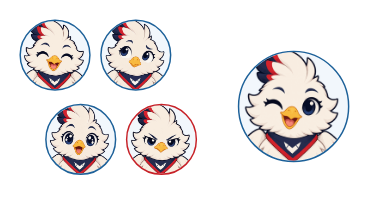
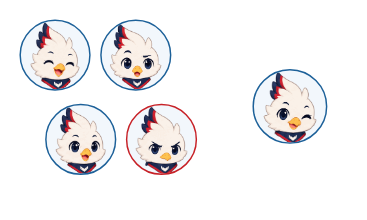
Griffin: huy hiệu dùng bộ mặt 02_faces, vẽ thêm dấu chấm cho ! và ?
GriffinBadge lấy mặt từ 02_faces (badge-<mood>.png) thay cho ảnh cắt từ bộ đứng; face-<mood>.png vẫn
là avatar cho DialogueCard. Bộ gốc vẽ dấu chấm than và dấu hỏi thiếu dấu chấm — griffin-assets.py
vẽ bổ sung theo màu nền và viền của nét gốc, và giờ dựng luôn cả đạo cụ.

diff --git a/vinuni-lesson-video-ds/components/mascot/Griffin.jsx b/vinuni-lesson-video-ds/components/mascot/Griffin.jsx
@@ -51,8 +51,9 @@ const moodName = (m) => (m === 'angry' ? 'stern' : MOODS.includes(m) ? m : 'neut
 
 const PROPS = {
   lightbulb: { file: 'lightbulb', w: 51, h: 77 },
-  question: { file: 'question_mark', w: 52, h: 62 },
-  exclamation: { file: 'exclamation', w: 29, h: 60 },
+  // `k` scales a prop against the others: the marks include their dot, so they get more height
+  question: { file: 'question_mark', w: 52, h: 86, k: 1.3 },
+  exclamation: { file: 'exclamation', w: 29, h: 85, k: 1.3 },
   sparkle: { file: 'sparkle', w: 66, h: 76 },
   book: { file: 'book', w: 56, h: 93 },
   laptop: { file: 'laptop', w: 129, h: 85 },
@@ -188,7 +189,7 @@ export function Griffin({
         const o = stepOpacity(props, i, frame, 8);
         const pop = p.at <= 0 && enter === null ? 1 : popScale(frame, Math.max(p.at, enter ?? 0));
         // a worn prop sits on the head and moves with it; the others float above the crest
-        const size = def.worn ? h * 0.3 : ph;
+        const size = def.worn ? h * 0.3 : ph * (def.k ?? 1);
         const pw = def.worn ? size : (size * def.w) / def.h;
         const pH = def.worn ? (size * def.h) / def.w : size;
         const at = def.worn
@@ -220,8 +221,9 @@ export function Griffin({
 }
 
 /**
- * GriffinBadge — the face in a round frame: a reaction mark, or a speaker face beside a line. The faces
- * (face-<mood>.png, square, on bgAlt) are cut from the `stand` set; mood changes cut with a small pop.
+ * GriffinBadge — the face in a round frame: a reaction mark beside an idea. The heads are the pack's own
+ * face drawings (badge-<mood>.png, ~150×210 px — sharp up to r ≈ 100); mood changes cut with a small pop.
+ * A square avatar for DialogueCard is face-<mood>.png instead, cut from the `stand` set.
  */
 export function GriffinBadge({ x, y, r = 56, mood = 'neutral', frame = 0, enter = null, tone = 'accent', base = DEFAULT_BASE, opacity = 1 }) {
   if (opacity <= 0.001) return null;
@@ -233,6 +235,10 @@ export function GriffinBadge({ x, y, r = 56, mood = 'neutral', frame = 0, enter 
   const ring = { accent: C.accent, strong: C.accentStrong, red: C.red, muted: C.textMuted }[tone] ?? C.accent;
   const id = `gb-${Math.round(x)}-${Math.round(y)}`;
   const names = [...new Set(moods.map((m) => moodName(m.name)))];
+  // the heads are drawn larger than the ring and clipped to it (crest on top, scarf below), eyes and beak
+  // at the centre; the box keeps their ~0.72 aspect and the image fits inside it
+  const fh = r * 2.0;
+  const fw = fh * 0.74;
   return (
     <g opacity={opacity < 1 ? opacity : undefined} transform={`translate(${x} ${y}) scale(${s * (1 + q * 0.06)})`}>
       <defs>
@@ -245,11 +251,11 @@ export function GriffinBadge({ x, y, r = 56, mood = 'neutral', frame = 0, enter 
         {names.map((name) => (
           <image
             key={name}
-            href={griffinAsset(`face-${name}`, base)}
-            x={-r}
-            y={-r}
-            width={r * 2}
-            height={r * 2}
+            href={griffinAsset(`badge-${name}`, base)}
+            x={-fw / 2}
+            y={-fh * 0.47}
+            width={fw}
+            height={fh}
             opacity={name === now ? undefined : 0}
           />
         ))}

diff --git a/tools/griffin-assets.py b/tools/griffin-assets.py
@@ -5,9 +5,10 @@
 Every expression set is registered onto its calm picture (scale + shift, legs weighted over the head,
 mirrored when a picture was drawn facing the other way), so a mood change swaps the picture in place.
 Each set shares one canvas cropped to the union of its drawings, 820 px tall, feet on the bottom edge.
-Gestures are single pictures on the same 820 px scale; face-<mood>.png are square avatars cut from `stand`.
+Gestures are single pictures on the same 820 px scale; face-<mood>.png are square avatars cut from `stand`;
+badge-<mood>.png are the head-only drawings of 02_faces (GriffinBadge).
 Output is a 256-colour palette PNG (flat cartoon colours: visually lossless, ~4x smaller).
-Props (lightbulb, question_mark…) are copied by hand from 08_accessories_props — they are not touched here.
+Props come from 08_accessories_props, trimmed; `!` and `?` get the dot the pack's drawings are missing.
 """
 import json, os, sys
 import numpy as np
@@ -139,5 +140,35 @@ for m in MOODS:
     bg = Image.new('RGBA', c.size, (242, 247, 252, 255))
     bg.alpha_composite(c)
     bg.convert('RGB').save(f'{OUT}/face-{m}.png', optimize=True)
+# badge faces (GriffinBadge): the head-only drawings of 02_faces, trimmed; `angry` is the pack's name for stern
+for m in MOODS:
+    im = Image.open(f"{SRC}/02_faces/face_{'angry' if m == 'stern' else m}.png").convert('RGBA')
+    im = im.crop(im.getchannel('A').point(lambda v: 255 if v > 8 else 0).getbbox())
+    save(im, f'{OUT}/badge-{m}.png')
+# props: copied from 08_accessories_props, trimmed. The pack's `!` and `?` are drawn without their dot, so
+# one is painted under the stem in the drawing's own fill and outline (supersampled 4x for a clean edge).
+from PIL import ImageDraw
+PROPS = ['lightbulb', 'question_mark', 'exclamation', 'sparkle', 'book', 'laptop', 'graduation_hat']
+DOTTED = {'exclamation': 0.72, 'question_mark': 0.62}  # dot diameter as a share of the stem's width
+for name in PROPS:
+    im = Image.open(f'{SRC}/08_accessories_props/{name}.png').convert('RGBA')
+    im = im.crop(im.getchannel('A').point(lambda v: 255 if v > 8 else 0).getbbox())
+    if name in DOTTED:
+        a = im.getchannel('A')
+        # the stem: opaque run of the row 12 % above the bottom of the drawing
+        row = int(im.height * 0.88)
+        xs = [x for x in range(im.width) if a.getpixel((x, row)) > 128]
+        cx, stem = (xs[0] + xs[-1]) / 2, xs[-1] - xs[0] + 1
+        d = max(8, round(stem * DOTTED[name] + 6))
+        gap = max(4, round(d * 0.35))
+        canvas = Image.new('RGBA', (max(im.width, round(cx + d / 2) + 2), im.height + gap + d + 2), (0, 0, 0, 0))
+        canvas.paste(im, (0, 0))
+        k = 4
+        dot = Image.new('RGBA', (canvas.width * k, canvas.height * k), (0, 0, 0, 0))
+        top = im.height + gap
+        box = [(cx - d / 2) * k, top * k, (cx + d / 2) * k, (top + d) * k]
+        ImageDraw.Draw(dot).ellipse(box, fill=(244, 58, 58, 255), outline=(150, 20, 22, 255), width=round(2 * k))
+        im = Image.alpha_composite(canvas, dot.resize(canvas.size, Image.LANCZOS))
+    im.save(f'{OUT}/{name}.png', optimize=True)
 # widths go into POSES in components/mascot/Griffin.jsx
 print(json.dumps(meta))

diff --git a/vinuni-lesson-video-ds/components/mascot/Griffin.prompt.md b/vinuni-lesson-video-ds/components/mascot/Griffin.prompt.md
@@ -17,8 +17,8 @@ một ảnh**, đổi theo nhịp lời.
 ## Khi nào dùng
 
 - Người dẫn dắt ở mở bài / chuyển đoạn / kết bài: bước vào, vẫy cánh chào, gợi câu hỏi, "à ra thế", chúc mừng.
-- `GriffinBadge` — gương mặt trong khung tròn: dấu phản ứng nhỏ cạnh một ý. `griffinAsset('face-<mood>')` là
-  ảnh vuông cho `avatar` của `DialogueCard` khi Griffin là một bên của hội thoại.
+- `GriffinBadge` — gương mặt trong khung tròn: dấu phản ứng nhỏ cạnh một ý (ảnh mặt riêng, nét tới `r` ≈ 100).
+- `griffinAsset('face-<mood>')` là ảnh vuông cho `avatar` của `DialogueCard` khi Griffin là một bên của hội thoại.
 
 **Không dùng** trong cảnh đang giải thích dày chữ/sơ đồ — linh vật chiếm ~25 % khung và hút mắt. Một cảnh
 tối đa một Griffin.
